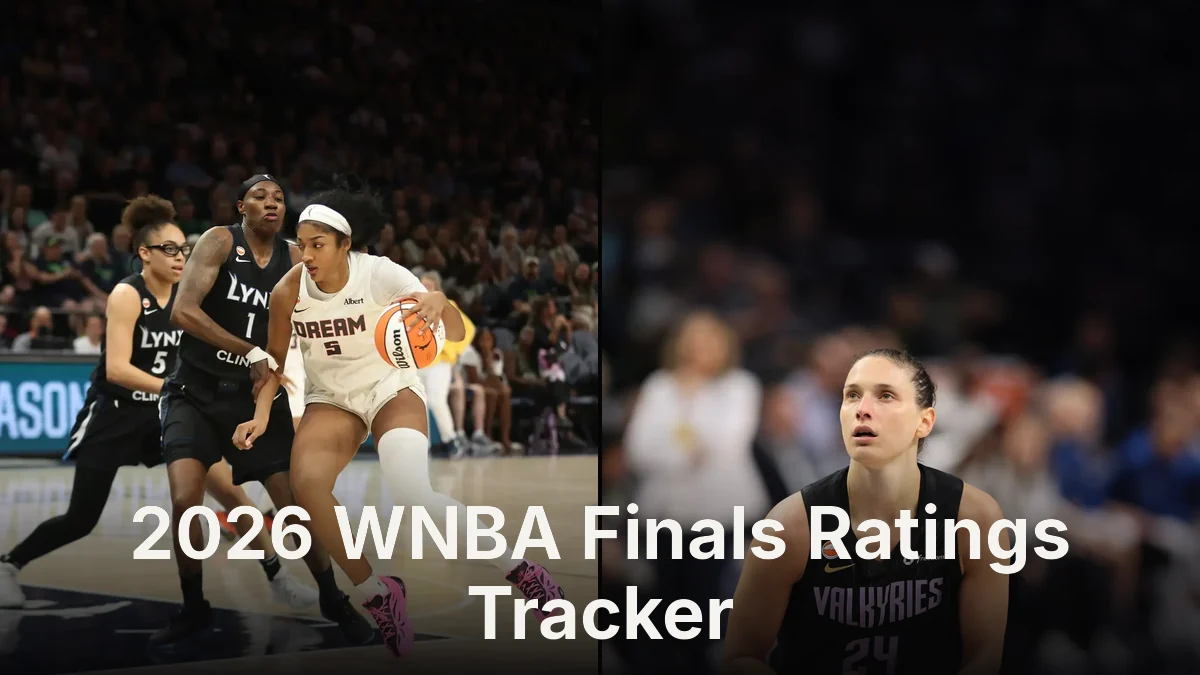
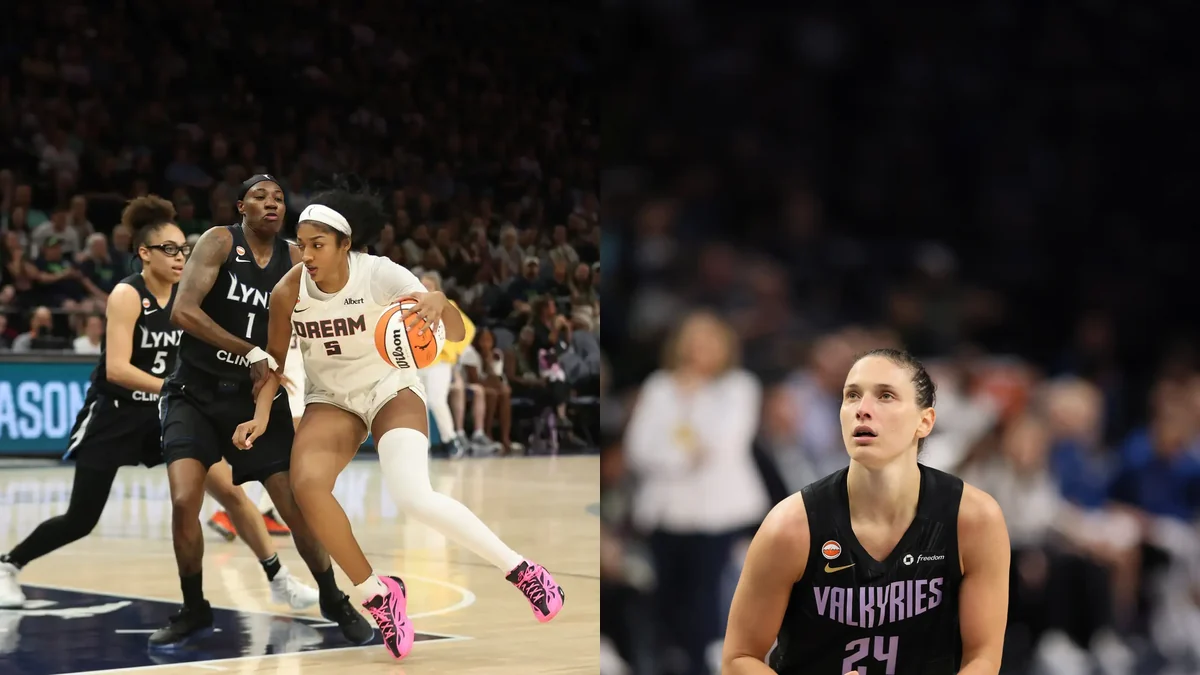
Remove the title overlay from the Finals matchup photo.
The 1200x675 page image and the 1200x630 preview are the two credited player photos only.

Changed region(s): [[0.0, 0.6533, 1.0, 1.0], [0.4933, 0.5289, 0.5242, 0.56], [0.4933, 0.3422, 0.5242, 0.3733]]

diff --git a/automation/build_finals_ratings_tracker.py b/automation/build_finals_ratings_tracker.py
@@ -36,7 +36,6 @@ MATCHUP_PAGE = (1200, 675)
 MATCHUP_OG = (1200, 630)
 MATCHUP_PAGE_NAME = 'matchup-1200.webp'
 MATCHUP_OG_NAME = 'matchup-og.webp'
-MATCHUP_LABEL = '2026 WNBA Finals Ratings Tracker'
 REESE_PHOTO = ROOT / 'images' / 'articles' / 'wnba-finals-2026-audience-growth-dream-valkyries' / 'angel-reese-dream-2026.webp'
 ZANDA_PHOTO = ROOT / 'images' / 'articles' / 'finals-game-1-preview-dream-valkyries' / 'cecilia-zandalasini-valkyries-2026.webp'
 CARD_TITLE = '2026 WNBA Finals Ratings Tracker'
@@ -136,33 +135,12 @@ def _head_safe_panel(image: Image.Image, width: int, height: int) -> Image.Image
     return src.resize((width, height), Image.Resampling.LANCZOS)
 
 
-def _label_overlay(width: int, height: int) -> Image.Image:
-    """Dark gradient strip with the tracker name, sized for a phone preview."""
-    overlay = Image.new('RGBA', (width, height), (0, 0, 0, 0))
-    draw = ImageDraw.Draw(overlay)
-    strip = int(height * 0.38)
-    start = height - strip
-    for y in range(start, height):
-        fade = (y - start) / max(1, strip - 1)
-        alpha = int(235 * (fade ** 1.05))
-        draw.line([(0, y), (width, y)], fill=(5, 5, 6, alpha))
-    font_size = 72 if width >= 1200 else 56
-    font = ImageFont.truetype(str(ROOT / 'assets' / 'fonts' / 'Inter-Bold.ttf'), font_size)
-    lines = _wrap_lines(draw, MATCHUP_LABEL, font, width - 80)
-    line_h = int(font_size * 1.12)
-    y = height - (line_h * len(lines)) - 26
-    for line in lines:
-        text_w = draw.textlength(line, font=font)
-        draw.text(((width - text_w) / 2, y), line, font=font, fill=(245, 243, 239, 255))
-        y += line_h
-    return overlay
-
-
 def draw_matchup(size: tuple[int, int], dest: Path) -> Path:
     """Side-by-side credited photos. Page frame is 1200x675; the og crop is 1200x630.
 
     Sources are the Dream and Valkyries photos already published with credit.
-    Missing files stop the build instead of substituting another picture.
+    The frame is the photos only. Missing files stop the build instead of
+    substituting another picture.
     """
     missing = [path for path in (REESE_PHOTO, ZANDA_PHOTO) if not path.is_file()]
     if missing:
@@ -176,11 +154,8 @@ def draw_matchup(size: tuple[int, int], dest: Path) -> Path:
     canvas = Image.new('RGB', size, (5, 5, 6))
     canvas.paste(left, (0, 0))
     canvas.paste(right, (half, 0))
-    seam = ImageDraw.Draw(canvas)
-    seam.rectangle((half - 2, 0, half + 1, height), fill=(5, 5, 6))
-    framed = Image.alpha_composite(canvas.convert('RGBA'), _label_overlay(width, height))
     dest.parent.mkdir(parents=True, exist_ok=True)
-    framed.convert('RGB').save(dest, 'WEBP', quality=86, method=6)
+    canvas.save(dest, 'WEBP', quality=86, method=6)
     return dest
 
 

diff --git a/automation/news_heroes.py b/automation/news_heroes.py
@@ -362,7 +362,7 @@ def ensure_article_hero(root: Path, article: dict) -> dict:
     """
     if article.get('slug') == '2026-wnba-finals-ratings-tracker':
         # The matchup is already 1200x675 on the page and 1200x630 for og/twitter.
-        # Recropping it would clip the heads or the gradient label.
+        # Recropping it would clip the heads.
         return article
     source = source_path(root, article)
     if source is None:

diff --git a/docs/FINALS_TRACKER_UPDATE.md b/docs/FINALS_TRACKER_UPDATE.md
@@ -51,7 +51,7 @@ The page image and the og/twitter image are built from two photos the site alrea
 - Angel Reese of the Atlanta Dream, May 27, 2026. Photo: John Mac, CC BY-SA 4.0, via Wikimedia Commons (`File:Angel_Reese_Dream_2.jpg`).
 - Cecilia Zandalasini with the Valkyries at Target Center on Aug. 24, 2026, not from this series. Photo: John Mac / Wikimedia Commons (CC BY-SA 4.0) (`File:260824_Lynx_Valkries_JohnMc249_(55485544642).jpg`). This is the photo on the Finals Game 1 preview.
 
-`automation/build_finals_ratings_tracker.py` writes `matchup-1200.webp` at 1200×675 for the page and `matchup-og.webp` at 1200×630 for og:image and twitter:image. Both frames put the players side by side, keep the tops of their heads, and put `2026 WNBA Finals Ratings Tracker` on a dark gradient strip. The page keeps both original captions. The homepage featured card uses the 1200×675 frame. Nightly hero generation skips this slug so it does not recrop the label.
+`automation/build_finals_ratings_tracker.py` writes `matchup-1200.webp` at 1200×675 for the page and `matchup-og.webp` at 1200×630 for og:image and twitter:image. Both frames put the players side by side and keep the tops of their heads. There is no text or gradient on the photo. The page keeps both original captions. The homepage featured card uses the 1200×675 frame. Nightly hero generation skips this slug so it does not recrop the heads.
 
 ## Page order
 
